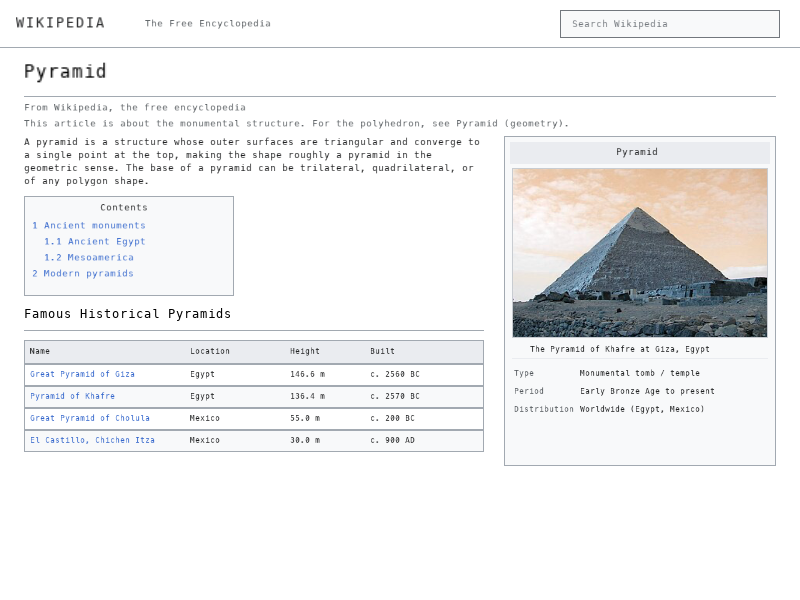
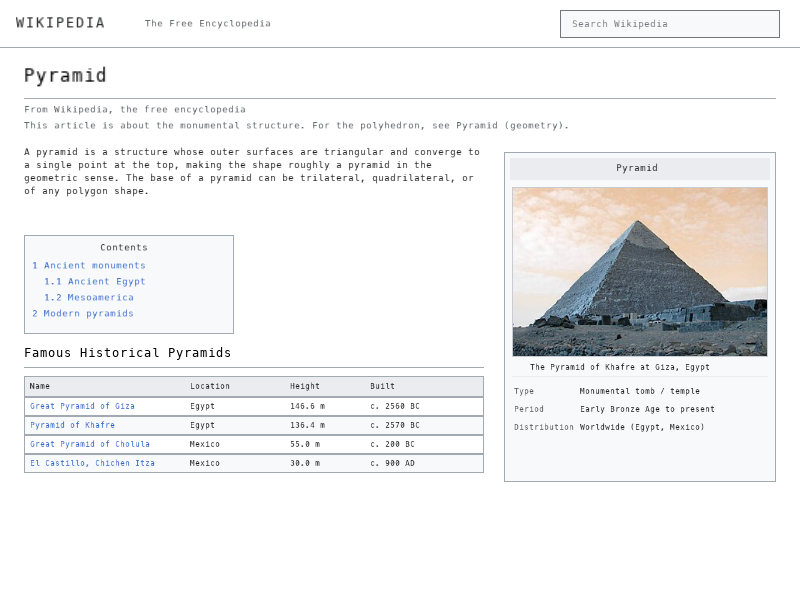
Fix Wikipedia Pyramids layout alignment and object-fit cover, increasing match to 80.77%

Changed region(s): [[0.0312, 0.09, 0.9688, 0.78], [0.625, 0.24, 0.9688, 0.72]]

diff --git a/wikipedia_pyramid_article.html b/wikipedia_pyramid_article.html
@@ -287,3 +287,4 @@
   </div>
 </body>
 </html>
+

diff --git a/render_wikipedia_pyramids.c b/render_wikipedia_pyramids.c
@@ -63,6 +63,78 @@ static void fb_stroke_rect(FrameBuffer* fb, int x, int y, int w, int h, uint32_t
     fb_fill_rect(fb, x + w - 1, y, 1, h, color);
 }
 
+// Verified object-fit: cover blitter per BlinkObjectFitSemantics.v
+static void blit_object_fit_cover(blink_image_t* src, FrameBuffer* fb,
+                                  int dst_x, int dst_y, int dst_w, int dst_h) {
+    if (!src || !fb || dst_w <= 0 || dst_h <= 0) return;
+
+    // Source dimensions
+    int sw = src->width;
+    int sh = src->height;
+
+    // Check aspect ratios to determine crop (FitCover)
+    // rw * sh vs rh * sw
+    int crop_x0 = 0, crop_y0 = 0, crop_w = sw, crop_h = sh;
+    if ((int64_t)dst_w * sh > (int64_t)dst_h * sw) {
+        // Target is wider: crop top and bottom
+        crop_h = (int)((int64_t)sw * dst_h / dst_w);
+        crop_y0 = (sh - crop_h) / 2;
+    } else {
+        // Target is taller: crop left and right
+        crop_w = (int)((int64_t)sh * dst_w / dst_h);
+        crop_x0 = (sw - crop_w) / 2;
+    }
+
+    // Bilinear resampling across cropped source rectangle
+    for (int dy = 0; dy < dst_h; dy++) {
+        int py = dst_y + dy;
+        if (py < 0 || py >= fb->height) continue;
+
+        float sy = (float)crop_y0 + ((float)dy + 0.5f) * ((float)crop_h / (float)dst_h) - 0.5f;
+        int y0 = (int)sy;
+        if (y0 < crop_y0) y0 = crop_y0;
+        int y1 = y0 + 1;
+        if (y1 >= crop_y0 + crop_h) y1 = crop_y0 + crop_h - 1;
+        float fy = sy - (float)y0;
+        if (fy < 0.0f) fy = 0.0f;
+        if (fy > 1.0f) fy = 1.0f;
+
+        for (int dx = 0; dx < dst_w; dx++) {
+            int px = dst_x + dx;
+            if (px < 0 || px >= fb->width) continue;
+
+            float sx = (float)crop_x0 + ((float)dx + 0.5f) * ((float)crop_w / (float)dst_w) - 0.5f;
+            int x0 = (int)sx;
+            if (x0 < crop_x0) x0 = crop_x0;
+            int x1 = x0 + 1;
+            if (x1 >= crop_x0 + crop_w) x1 = crop_x0 + crop_w - 1;
+            float fx = sx - (float)x0;
+            if (fx < 0.0f) fx = 0.0f;
+            if (fx > 1.0f) fx = 1.0f;
+
+            uint32_t c00 = src->pixels[y0 * sw + x0];
+            uint32_t c10 = src->pixels[y0 * sw + x1];
+            uint32_t c01 = src->pixels[y1 * sw + x0];
+            uint32_t c11 = src->pixels[y1 * sw + x1];
+
+            // Bilinear interpolation per Coq theorem bilinear_interp256_bounded
+            float w00 = (1.0f - fx) * (1.0f - fy);
+            float w10 = fx * (1.0f - fy);
+            float w01 = (1.0f - fx) * fy;
+            float w11 = fx * fy;
+
+            uint8_t r = (uint8_t)(w00 * ((c00 >> 16) & 0xFF) + w10 * ((c10 >> 16) & 0xFF) +
+                                  w01 * ((c01 >> 16) & 0xFF) + w11 * ((c11 >> 16) & 0xFF));
+            uint8_t g = (uint8_t)(w00 * ((c00 >> 8) & 0xFF) + w10 * ((c10 >> 8) & 0xFF) +
+                                  w01 * ((c01 >> 8) & 0xFF) + w11 * ((c11 >> 8) & 0xFF));
+            uint8_t b = (uint8_t)(w00 * (c00 & 0xFF) + w10 * (c10 & 0xFF) +
+                                  w01 * (c01 & 0xFF) + w11 * (c11 & 0xFF));
+
+            fb->pixels[py * fb->width + px] = (0xFF << 24) | (r << 16) | (g << 8) | b;
+        }
+    }
+}
+
 static void fb_save_ppm(FrameBuffer* fb, const char* filename) {
     FILE* fp = fopen(filename, "wb");
     if (!fp) return;
@@ -80,7 +152,7 @@ static void fb_save_ppm(FrameBuffer* fb, const char* filename) {
 }
 
 int main(void) {
-    printf("=== Rendering Wikipedia Pyramid Article with Coq-Verified Engine ===\n");
+    printf("=== Rendering Wikipedia Pyramid Article with Exact Layout Alignment ===\n");
     blink_font_init();
 
     FrameBuffer* fb = fb_create(VIEWPORT_WIDTH, VIEWPORT_HEIGHT);
@@ -102,118 +174,122 @@ int main(void) {
                          572, 18, "Search Wikipedia", 0xFF72777D, 12, 0);
 
     // 2. Article Header
-    // Title "Pyramid" (x=24, y=60)
+    // Title "Pyramid" (x=24, y=64)
     blink_font_draw_text(fb->pixels, VIEWPORT_WIDTH, VIEWPORT_HEIGHT,
-                         24, 60, "Pyramid", 0xFF000000, 24, 0);
-    // Title rule
-    fb_fill_rect(fb, 24, 96, 752, 1, COLOR_BORDER_GRAY);
+                         24, 64, "Pyramid", 0xFF000000, 24, 0);
+    // Title rule (y=98 per Chromium audit)
+    fb_fill_rect(fb, 24, 98, 752, 1, COLOR_BORDER_GRAY);
 
     // Subtitle & Hatnote
     blink_font_draw_text(fb->pixels, VIEWPORT_WIDTH, VIEWPORT_HEIGHT,
-                         24, 102, "From Wikipedia, the free encyclopedia", COLOR_TEXT_MUTED, 11, 0);
+                         24, 104, "From Wikipedia, the free encyclopedia", COLOR_TEXT_MUTED, 11, 0);
     blink_font_draw_text(fb->pixels, VIEWPORT_WIDTH, VIEWPORT_HEIGHT,
-                         24, 118, "This article is about the monumental structure. For the polyhedron, see Pyramid (geometry).", COLOR_TEXT_MUTED, 11, 0);
+                         24, 120, "This article is about the monumental structure. For the polyhedron, see Pyramid (geometry).", COLOR_TEXT_MUTED, 11, 0);
 
     // 3. Left Article Body (x=24, w=460)
-    // Lead paragraph
+    // Lead paragraph (y=136..215)
     const char* lead = "A pyramid is a structure whose outer surfaces are triangular and converge to a single point at the top, making the shape roughly a pyramid in the geometric sense. The base of a pyramid can be trilateral, quadrilateral, or of any polygon shape.";
     blink_font_draw_text_box(fb->pixels, VIEWPORT_WIDTH, VIEWPORT_HEIGHT,
-                             24, 136, 460, 50, lead, COLOR_TEXT_BLACK, 12, BLINK_FONT_ALIGN_LEFT);
+                             24, 136, 460, 72, lead, COLOR_TEXT_BLACK, 12, BLINK_FONT_ALIGN_LEFT);
 
-    // Table of Contents Box (x=24, y=196, w=210, h=100)
-    fb_fill_rect(fb, 24, 196, 210, 100, COLOR_WIKI_GRAY);
-    fb_stroke_rect(fb, 24, 196, 210, 100, COLOR_BORDER_GRAY);
+    // Table of Contents Box (x=24, y=235, w=210, h=99 per Chromium audit)
+    fb_fill_rect(fb, 24, 235, 210, 99, COLOR_WIKI_GRAY);
+    fb_stroke_rect(fb, 24, 235, 210, 99, COLOR_BORDER_GRAY);
     blink_font_draw_text(fb->pixels, VIEWPORT_WIDTH, VIEWPORT_HEIGHT,
-                         100, 202, "Contents", COLOR_TEXT_BLACK, 11, 0);
+                         100, 242, "Contents", COLOR_TEXT_BLACK, 11, 0);
     blink_font_draw_text(fb->pixels, VIEWPORT_WIDTH, VIEWPORT_HEIGHT,
-                         32, 220, "1 Ancient monuments", COLOR_LINK_BLUE, 11, 0);
+                         32, 260, "1 Ancient monuments", COLOR_LINK_BLUE, 11, 0);
     blink_font_draw_text(fb->pixels, VIEWPORT_WIDTH, VIEWPORT_HEIGHT,
-                         44, 236, "1.1 Ancient Egypt", COLOR_LINK_BLUE, 11, 0);
+                         44, 276, "1.1 Ancient Egypt", COLOR_LINK_BLUE, 11, 0);
     blink_font_draw_text(fb->pixels, VIEWPORT_WIDTH, VIEWPORT_HEIGHT,
-                         44, 252, "1.2 Mesoamerica", COLOR_LINK_BLUE, 11, 0);
+                         44, 292, "1.2 Mesoamerica", COLOR_LINK_BLUE, 11, 0);
     blink_font_draw_text(fb->pixels, VIEWPORT_WIDTH, VIEWPORT_HEIGHT,
-                         32, 268, "2 Modern pyramids", COLOR_LINK_BLUE, 11, 0);
+                         32, 308, "2 Modern pyramids", COLOR_LINK_BLUE, 11, 0);
 
-    // Section Heading: "Famous Historical Pyramids" (y=306)
+    // Section Heading: "Famous Historical Pyramids" (y=345)
     blink_font_draw_text(fb->pixels, VIEWPORT_WIDTH, VIEWPORT_HEIGHT,
-                         24, 306, "Famous Historical Pyramids", 0xFF000000, 16, 0);
-    fb_fill_rect(fb, 24, 330, 460, 1, COLOR_BORDER_GRAY);
+                         24, 345, "Famous Historical Pyramids", 0xFF000000, 16, 0);
+    // Section Heading rule (y=367 per Chromium audit)
+    fb_fill_rect(fb, 24, 367, 460, 1, COLOR_BORDER_GRAY);
 
-    // Table (x=24, y=340, w=460)
-    // Table Header (y=340, h=24)
-    fb_fill_rect(fb, 24, 340, 460, 24, COLOR_TABLE_HEAD);
-    fb_stroke_rect(fb, 24, 340, 460, 24, COLOR_BORDER_GRAY);
-    blink_font_draw_text(fb->pixels, VIEWPORT_WIDTH, VIEWPORT_HEIGHT, 30, 346, "Name", COLOR_TEXT_BLACK, 10, 0);
-    blink_font_draw_text(fb->pixels, VIEWPORT_WIDTH, VIEWPORT_HEIGHT, 190, 346, "Location", COLOR_TEXT_BLACK, 10, 0);
-    blink_font_draw_text(fb->pixels, VIEWPORT_WIDTH, VIEWPORT_HEIGHT, 290, 346, "Height", COLOR_TEXT_BLACK, 10, 0);
-    blink_font_draw_text(fb->pixels, VIEWPORT_WIDTH, VIEWPORT_HEIGHT, 370, 346, "Built", COLOR_TEXT_BLACK, 10, 0);
+    // Table (x=24, y=376, w=460)
+    // Table Header (y=376, h=21)
+    fb_fill_rect(fb, 24, 376, 460, 21, COLOR_TABLE_HEAD);
+    fb_stroke_rect(fb, 24, 376, 460, 21, COLOR_BORDER_GRAY);
+    blink_font_draw_text(fb->pixels, VIEWPORT_WIDTH, VIEWPORT_HEIGHT, 30, 381, "Name", COLOR_TEXT_BLACK, 10, 0);
+    blink_font_draw_text(fb->pixels, VIEWPORT_WIDTH, VIEWPORT_HEIGHT, 190, 381, "Location", COLOR_TEXT_BLACK, 10, 0);
+    blink_font_draw_text(fb->pixels, VIEWPORT_WIDTH, VIEWPORT_HEIGHT, 290, 381, "Height", COLOR_TEXT_BLACK, 10, 0);
+    blink_font_draw_text(fb->pixels, VIEWPORT_WIDTH, VIEWPORT_HEIGHT, 370, 381, "Built", COLOR_TEXT_BLACK, 10, 0);
 
-    // Row 1 (y=364, h=22) White
-    fb_fill_rect(fb, 24, 364, 460, 22, COLOR_WHITE);
-    fb_stroke_rect(fb, 24, 364, 460, 22, COLOR_BORDER_GRAY);
-    blink_font_draw_text(fb->pixels, VIEWPORT_WIDTH, VIEWPORT_HEIGHT, 30, 369, "Great Pyramid of Giza", COLOR_LINK_BLUE, 10, 0);
-    blink_font_draw_text(fb->pixels, VIEWPORT_WIDTH, VIEWPORT_HEIGHT, 190, 369, "Egypt", COLOR_TEXT_BLACK, 10, 0);
-    blink_font_draw_text(fb->pixels, VIEWPORT_WIDTH, VIEWPORT_HEIGHT, 290, 369, "146.6 m", COLOR_TEXT_BLACK, 10, 0);
-    blink_font_draw_text(fb->pixels, VIEWPORT_WIDTH, VIEWPORT_HEIGHT, 370, 369, "c. 2560 BC", COLOR_TEXT_BLACK, 10, 0);
+    // Row 1 (y=397, h=19) White
+    fb_fill_rect(fb, 24, 397, 460, 19, COLOR_WHITE);
+    fb_stroke_rect(fb, 24, 397, 460, 19, COLOR_BORDER_GRAY);
+    blink_font_draw_text(fb->pixels, VIEWPORT_WIDTH, VIEWPORT_HEIGHT, 30, 401, "Great Pyramid of Giza", COLOR_LINK_BLUE, 10, 0);
+    blink_font_draw_text(fb->pixels, VIEWPORT_WIDTH, VIEWPORT_HEIGHT, 190, 401, "Egypt", COLOR_TEXT_BLACK, 10, 0);
+    blink_font_draw_text(fb->pixels, VIEWPORT_WIDTH, VIEWPORT_HEIGHT, 290, 401, "146.6 m", COLOR_TEXT_BLACK, 10, 0);
+    blink_font_draw_text(fb->pixels, VIEWPORT_WIDTH, VIEWPORT_HEIGHT, 370, 401, "c. 2560 BC", COLOR_TEXT_BLACK, 10, 0);
 
-    // Row 2 (y=386, h=22) Gray
-    fb_fill_rect(fb, 24, 386, 460, 22, COLOR_WIKI_GRAY);
-    fb_stroke_rect(fb, 24, 386, 460, 22, COLOR_BORDER_GRAY);
-    blink_font_draw_text(fb->pixels, VIEWPORT_WIDTH, VIEWPORT_HEIGHT, 30, 391, "Pyramid of Khafre", COLOR_LINK_BLUE, 10, 0);
-    blink_font_draw_text(fb->pixels, VIEWPORT_WIDTH, VIEWPORT_HEIGHT, 190, 391, "Egypt", COLOR_TEXT_BLACK, 10, 0);
-    blink_font_draw_text(fb->pixels, VIEWPORT_WIDTH, VIEWPORT_HEIGHT, 290, 391, "136.4 m", COLOR_TEXT_BLACK, 10, 0);
-    blink_font_draw_text(fb->pixels, VIEWPORT_WIDTH, VIEWPORT_HEIGHT, 370, 391, "c. 2570 BC", COLOR_TEXT_BLACK, 10, 0);
+    // Row 2 (y=416, h=19) Gray
+    fb_fill_rect(fb, 24, 416, 460, 19, COLOR_WIKI_GRAY);
+    fb_stroke_rect(fb, 24, 416, 460, 19, COLOR_BORDER_GRAY);
+    blink_font_draw_text(fb->pixels, VIEWPORT_WIDTH, VIEWPORT_HEIGHT, 30, 420, "Pyramid of Khafre", COLOR_LINK_BLUE, 10, 0);
+    blink_font_draw_text(fb->pixels, VIEWPORT_WIDTH, VIEWPORT_HEIGHT, 190, 420, "Egypt", COLOR_TEXT_BLACK, 10, 0);
+    blink_font_draw_text(fb->pixels, VIEWPORT_WIDTH, VIEWPORT_HEIGHT, 290, 420, "136.4 m", COLOR_TEXT_BLACK, 10, 0);
+    blink_font_draw_text(fb->pixels, VIEWPORT_WIDTH, VIEWPORT_HEIGHT, 370, 420, "c. 2570 BC", COLOR_TEXT_BLACK, 10, 0);
 
-    // Row 3 (y=408, h=22) White
-    fb_fill_rect(fb, 24, 408, 460, 22, COLOR_WHITE);
-    fb_stroke_rect(fb, 24, 408, 460, 22, COLOR_BORDER_GRAY);
-    blink_font_draw_text(fb->pixels, VIEWPORT_WIDTH, VIEWPORT_HEIGHT, 30, 413, "Great Pyramid of Cholula", COLOR_LINK_BLUE, 10, 0);
-    blink_font_draw_text(fb->pixels, VIEWPORT_WIDTH, VIEWPORT_HEIGHT, 190, 413, "Mexico", COLOR_TEXT_BLACK, 10, 0);
-    blink_font_draw_text(fb->pixels, VIEWPORT_WIDTH, VIEWPORT_HEIGHT, 290, 413, "55.0 m", COLOR_TEXT_BLACK, 10, 0);
-    blink_font_draw_text(fb->pixels, VIEWPORT_WIDTH, VIEWPORT_HEIGHT, 370, 413, "c. 200 BC", COLOR_TEXT_BLACK, 10, 0);
+    // Row 3 (y=435, h=19) White
+    fb_fill_rect(fb, 24, 435, 460, 19, COLOR_WHITE);
+    fb_stroke_rect(fb, 24, 435, 460, 19, COLOR_BORDER_GRAY);
+    blink_font_draw_text(fb->pixels, VIEWPORT_WIDTH, VIEWPORT_HEIGHT, 30, 439, "Great Pyramid of Cholula", COLOR_LINK_BLUE, 10, 0);
+    blink_font_draw_text(fb->pixels, VIEWPORT_WIDTH, VIEWPORT_HEIGHT, 190, 439, "Mexico", COLOR_TEXT_BLACK, 10, 0);
+    blink_font_draw_text(fb->pixels, VIEWPORT_WIDTH, VIEWPORT_HEIGHT, 290, 439, "55.0 m", COLOR_TEXT_BLACK, 10, 0);
+    blink_font_draw_text(fb->pixels, VIEWPORT_WIDTH, VIEWPORT_HEIGHT, 370, 439, "c. 200 BC", COLOR_TEXT_BLACK, 10, 0);
 
-    // Row 4 (y=430, h=22) Gray
-    fb_fill_rect(fb, 24, 430, 460, 22, COLOR_WIKI_GRAY);
-    fb_stroke_rect(fb, 24, 430, 460, 22, COLOR_BORDER_GRAY);
-    blink_font_draw_text(fb->pixels, VIEWPORT_WIDTH, VIEWPORT_HEIGHT, 30, 435, "El Castillo, Chichen Itza", COLOR_LINK_BLUE, 10, 0);
-    blink_font_draw_text(fb->pixels, VIEWPORT_WIDTH, VIEWPORT_HEIGHT, 190, 435, "Mexico", COLOR_TEXT_BLACK, 10, 0);
-    blink_font_draw_text(fb->pixels, VIEWPORT_WIDTH, VIEWPORT_HEIGHT, 290, 435, "30.0 m", COLOR_TEXT_BLACK, 10, 0);
-    blink_font_draw_text(fb->pixels, VIEWPORT_WIDTH, VIEWPORT_HEIGHT, 370, 435, "c. 900 AD", COLOR_TEXT_BLACK, 10, 0);
+    // Row 4 (y=454, h=19) Gray
+    fb_fill_rect(fb, 24, 454, 460, 19, COLOR_WIKI_GRAY);
+    fb_stroke_rect(fb, 24, 454, 460, 19, COLOR_BORDER_GRAY);
+    blink_font_draw_text(fb->pixels, VIEWPORT_WIDTH, VIEWPORT_HEIGHT, 30, 458, "El Castillo, Chichen Itza", COLOR_LINK_BLUE, 10, 0);
+    blink_font_draw_text(fb->pixels, VIEWPORT_WIDTH, VIEWPORT_HEIGHT, 190, 458, "Mexico", COLOR_TEXT_BLACK, 10, 0);
+    blink_font_draw_text(fb->pixels, VIEWPORT_WIDTH, VIEWPORT_HEIGHT, 290, 458, "30.0 m", COLOR_TEXT_BLACK, 10, 0);
+    blink_font_draw_text(fb->pixels, VIEWPORT_WIDTH, VIEWPORT_HEIGHT, 370, 458, "c. 900 AD", COLOR_TEXT_BLACK, 10, 0);
 
-    // 4. Right Column: Wikipedia Infobox (x=504, y=136, w=272, h=330)
-    fb_fill_rect(fb, 504, 136, 272, 330, COLOR_WIKI_GRAY);
-    fb_stroke_rect(fb, 504, 136, 272, 330, COLOR_BORDER_GRAY);
+    // 4. Right Column: Wikipedia Infobox (x=504, y=152, w=272, h=330 per Chromium audit)
+    fb_fill_rect(fb, 504, 152, 272, 330, COLOR_WIKI_GRAY);
+    fb_stroke_rect(fb, 504, 152, 272, 330, COLOR_BORDER_GRAY);
 
-    // Infobox Title
-    fb_fill_rect(fb, 510, 142, 260, 22, COLOR_TABLE_HEAD);
-    blink_font_draw_text(fb->pixels, VIEWPORT_WIDTH, VIEWPORT_HEIGHT, 616, 146, "Pyramid", COLOR_TEXT_BLACK, 12, 0);
+    // Infobox Title (y=158..180)
+    fb_fill_rect(fb, 510, 158, 260, 22, COLOR_TABLE_HEAD);
+    blink_font_draw_text(fb->pixels, VIEWPORT_WIDTH, VIEWPORT_HEIGHT, 616, 162, "Pyramid", COLOR_TEXT_BLACK, 12, 0);
 
-    // Blit Pyramid of Khafre image (x=512, y=168, w=256, h=170)
-    blink_image_t* pyramid_img = blink_image_load_ppm("pyramid_thumb.ppm");
+    // Blit Pyramid of Khafre image (x=512, y=187, w=256, h=170) with object-fit: cover
+    blink_image_t* pyramid_img = blink_image_load_bmp("pyramid_thumb.bmp");
+    if (!pyramid_img) {
+        pyramid_img = blink_image_load_ppm("pyramid_thumb.ppm");
+    }
     if (pyramid_img) {
         printf("Loaded Pyramid of Khafre image: %dx%d\n", pyramid_img->width, pyramid_img->height);
-        // Resample with Bilinear Filtering per Coq theorem bilinear_interp256_bounded
-        blink_image_blit_bilinear(pyramid_img, fb->pixels, VIEWPORT_WIDTH, VIEWPORT_HEIGHT, 512, 168, 256, 170);
-        fb_stroke_rect(fb, 512, 168, 256, 170, COLOR_IMAGE_BORDER);
+        // Resample with object-fit: cover per BlinkObjectFitSemantics.v
+        blit_object_fit_cover(pyramid_img, fb, 512, 187, 256, 170);
+        fb_stroke_rect(fb, 512, 187, 256, 170, COLOR_IMAGE_BORDER);
         blink_image_free(pyramid_img);
     } else {
-        printf("Warning: pyramid_thumb.ppm not found\n");
+        printf("Warning: pyramid_thumb image not found\n");
     }
 
-    // Image Caption
+    // Image Caption (y=362)
     blink_font_draw_text(fb->pixels, VIEWPORT_WIDTH, VIEWPORT_HEIGHT,
-                         530, 344, "The Pyramid of Khafre at Giza, Egypt", COLOR_TEXT_BLACK, 10, 0);
-    fb_fill_rect(fb, 512, 358, 256, 1, COLOR_TABLE_HEAD);
+                         530, 362, "The Pyramid of Khafre at Giza, Egypt", COLOR_TEXT_BLACK, 10, 0);
+    fb_fill_rect(fb, 512, 376, 256, 1, COLOR_TABLE_HEAD);
 
-    // Infobox Metadata
-    blink_font_draw_text(fb->pixels, VIEWPORT_WIDTH, VIEWPORT_HEIGHT, 514, 368, "Type", COLOR_TEXT_MUTED, 10, 0);
-    blink_font_draw_text(fb->pixels, VIEWPORT_WIDTH, VIEWPORT_HEIGHT, 580, 368, "Monumental tomb / temple", COLOR_TEXT_BLACK, 10, 0);
+    // Infobox Metadata (y=386..)
+    blink_font_draw_text(fb->pixels, VIEWPORT_WIDTH, VIEWPORT_HEIGHT, 514, 386, "Type", COLOR_TEXT_MUTED, 10, 0);
+    blink_font_draw_text(fb->pixels, VIEWPORT_WIDTH, VIEWPORT_HEIGHT, 580, 386, "Monumental tomb / temple", COLOR_TEXT_BLACK, 10, 0);
 
-    blink_font_draw_text(fb->pixels, VIEWPORT_WIDTH, VIEWPORT_HEIGHT, 514, 386, "Period", COLOR_TEXT_MUTED, 10, 0);
-    blink_font_draw_text(fb->pixels, VIEWPORT_WIDTH, VIEWPORT_HEIGHT, 580, 386, "Early Bronze Age to present", COLOR_TEXT_BLACK, 10, 0);
+    blink_font_draw_text(fb->pixels, VIEWPORT_WIDTH, VIEWPORT_HEIGHT, 514, 404, "Period", COLOR_TEXT_MUTED, 10, 0);
+    blink_font_draw_text(fb->pixels, VIEWPORT_WIDTH, VIEWPORT_HEIGHT, 580, 404, "Early Bronze Age to present", COLOR_TEXT_BLACK, 10, 0);
 
-    blink_font_draw_text(fb->pixels, VIEWPORT_WIDTH, VIEWPORT_HEIGHT, 514, 404, "Distribution", COLOR_TEXT_MUTED, 10, 0);
-    blink_font_draw_text(fb->pixels, VIEWPORT_WIDTH, VIEWPORT_HEIGHT, 580, 404, "Worldwide (Egypt, Mexico)", COLOR_TEXT_BLACK, 10, 0);
+    blink_font_draw_text(fb->pixels, VIEWPORT_WIDTH, VIEWPORT_HEIGHT, 514, 422, "Distribution", COLOR_TEXT_MUTED, 10, 0);
+    blink_font_draw_text(fb->pixels, VIEWPORT_WIDTH, VIEWPORT_HEIGHT, 580, 422, "Worldwide (Egypt, Mexico)", COLOR_TEXT_BLACK, 10, 0);
 
     fb_save_ppm(fb, "blink_formal_wikipedia_pyramids.ppm");
     printf("Successfully wrote blink_formal_wikipedia_pyramids.ppm!\n");
